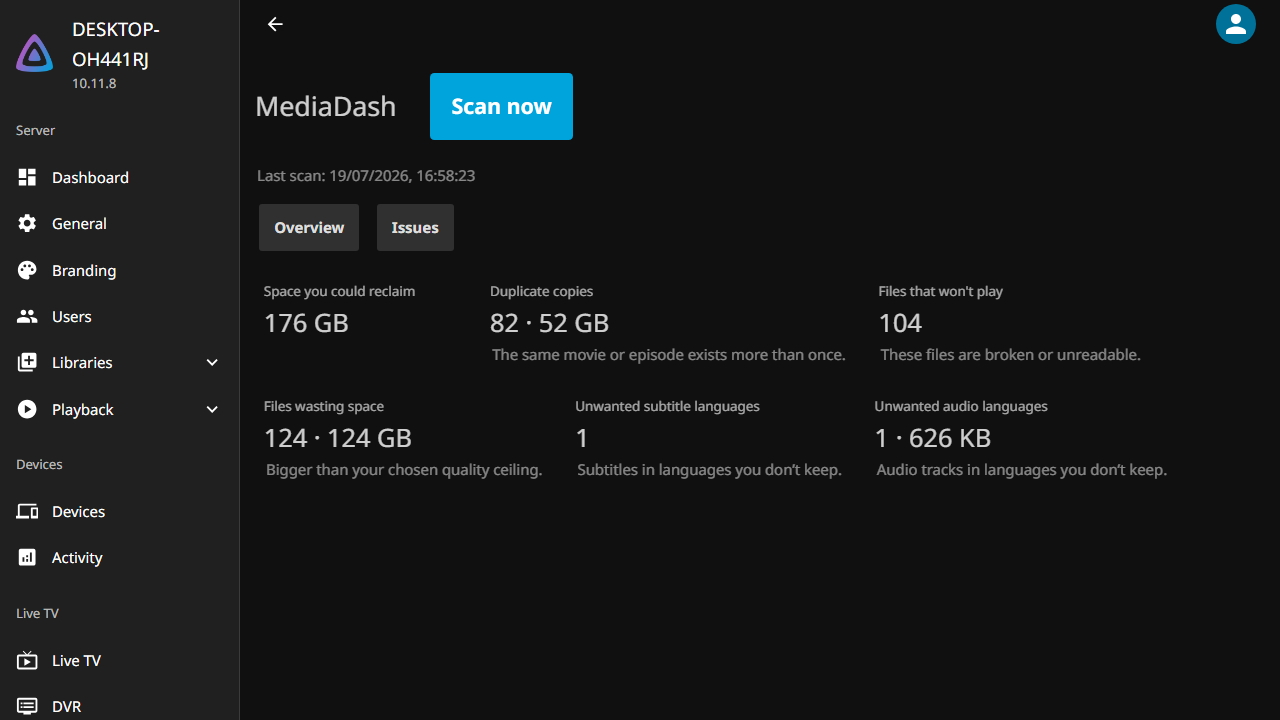
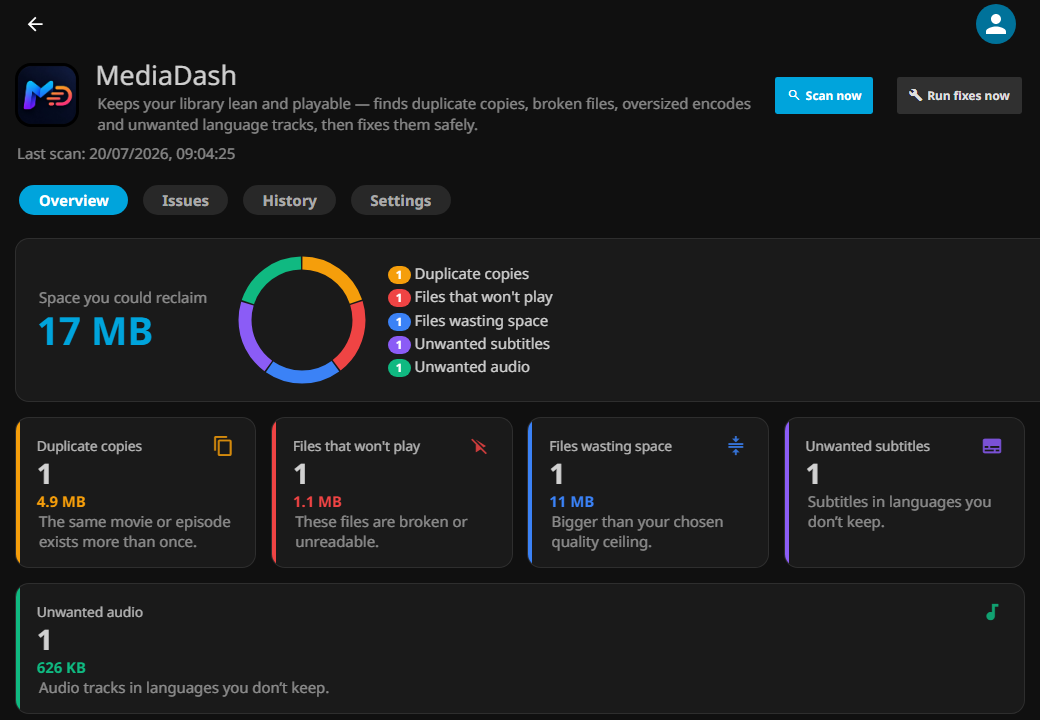
Public-facing README with badges, gallery and repo-install instructions; fresh screenshots; 0.1.0 changelog

diff --git a/README.md b/README.md
@@ -1,65 +1,90 @@
-<p align="center"><img src="logo.png" width="140" alt="MediaDash logo"/></p>
+<div align="center">
 
-# MediaDash — keep your Jellyfin library lean and playable
+<img src="logo.png" width="160" alt="MediaDash logo"/>
 
-MediaDash scans your libraries for **duplicate copies**, **files that won't play**, **oversized encodes**, and **audio/subtitle tracks in languages you don't want** — then fixes them, either automatically or after your approval. All from a dashboard inside the Jellyfin web UI.
+# MediaDash
 
-![Overview](docs/overview.png)
+**Keep your Jellyfin library lean and playable.**
 
-## What it will and won't touch (read this first)
+Finds duplicate copies, broken files, oversized encodes and unwanted language tracks — then fixes them safely, on your terms.
 
-- **Dry-run is ON by default.** Fix runs only log what they *would* do until you turn it off in Settings.
-- MediaDash **never touches files outside your configured library folders**.
-- It **never removes a file's only audio track** or its video stream, whatever the language settings say.
-- A re-encoded or rebuilt file **replaces the original only after it passes verification** (readable, same duration, expected streams).
-- Removed files go to MediaDash's **recycle bin** (default 30 days, one-click restore) unless you explicitly choose permanent delete.
-- Fix runs **pause while anyone is watching** something (default on).
+[![CI](https://github.com/crackruckles/MediaDash/actions/workflows/ci.yaml/badge.svg)](https://github.com/crackruckles/MediaDash/actions/workflows/ci.yaml)
+[![Release](https://img.shields.io/github/v/release/crackruckles/MediaDash?label=release&color=00a4dc)](https://github.com/crackruckles/MediaDash/releases/latest)
+[![Jellyfin](https://img.shields.io/badge/jellyfin-10.11%2B-aa5cc3)](https://jellyfin.org)
+[![License](https://img.shields.io/badge/license-GPLv3-blue)](LICENSE)
 
-## Features
+<img src="docs/overview.png" width="850" alt="MediaDash overview dashboard"/>
 
-| Scanner | What it finds | Fix |
+</div>
+
+---
+
+## Install (30 seconds)
+
+1. In Jellyfin: **Dashboard → Plugins → Repositories → +** and paste:
+
+   ```
+   https://raw.githubusercontent.com/crackruckles/MediaDash/main/manifest.json
+   ```
+
+2. Open **Catalog**, find **MediaDash**, click **Install**, restart Jellyfin.
+3. Open **Dashboard → My Plugins → MediaDash** and answer three setup questions. Done.
+
+Requires Jellyfin **10.11+**.
+
+## What it does
+
+| | Finds | Fixes |
 |---|---|---|
-| Duplicate copies | Same movie/episode more than once (by TMDb/IMDb/TVDb id, falling back to name+year) | Deletes the lower-quality copy; keeper policy configurable |
-| Files that won't play | Broken, unreadable, zero-duration files; optional deep decode check | Flagged for your review — never auto-deleted |
-| Files wasting space | Above your resolution/bitrate ceiling | Re-encode to your chosen codec + container (source file types filterable) |
-| Unwanted audio languages | Extra audio tracks outside your language list | Lossless remux dropping those tracks |
-| Unwanted subtitle languages | Embedded tracks and external files | Lossless remux / file removal |
+| 🗂 **Duplicate copies** | Same movie/episode twice (by TMDb/IMDb/TVDb id, or name + year) | Deletes the worse copy — you choose what "worse" means |
+| 🚫 **Files that won't play** | Broken and unreadable files — every file is *test-played* at its start, middle and end | Removes them, after re-checking they're really broken |
+| 📦 **Files wasting space** | Anything above your resolution/bitrate ceiling | Re-encodes to your chosen codec + container (GPU-accelerated if you want) |
+| 💬 **Unwanted subtitles** | Embedded tracks & external files in languages you don't keep | Lossless remux — no quality loss |
+| 🔊 **Unwanted audio** | Extra audio tracks outside your language list | Lossless remux — never touches a file's only audio track |
 
-Each fix type independently: **Off / Detect only / Ask me first / Automatic**, and **recycle bin / permanent delete**.
+Every fix type runs independently: **Off · Detect only · Ask me first · Automatic**.
 
-![History](docs/history.png)
+<div align="center">
+<img src="docs/issues.png" width="850" alt="Issues tab with one-click actions"/>
+</div>
 
-## Install
+## Built to be trusted with your media
 
-1. In Jellyfin: **Dashboard → Plugins → Repositories → +** and add this repository URL:
-   `https://raw.githubusercontent.com/crackruckles/MediaDash/main/manifest.json` *(will be live with the first release)*
-2. Go to **Catalog**, install **MediaDash**, restart Jellyfin.
-3. Open **Dashboard → My Plugins → MediaDash** and answer the three setup questions.
+- 🛡 **Dry-run is on by default** — fix runs only log what they *would* do until you say otherwise
+- ♻️ **Recycle bin, not deletion** — removed files are recoverable for 30 days with one-click Restore
+- ✅ **Verify before swap** — a re-encoded file replaces the original only after it passes probe verification (duration, streams)
+- 🔒 **Hard limits** — never touches files outside your libraries, never removes a file's last audio track, checks free disk space before encoding
+- 😴 **Polite** — scheduled runs wait until nobody is watching and the server has been idle for 15 minutes
 
-Requires Jellyfin **10.11** or newer.
+<div align="center">
+<img src="docs/history.png" width="850" alt="History with space-saved graph and restore"/>
+</div>
 
-## First run
+## Highlights
 
-Setup asks three things: the language you keep, your quality ceiling, and whether fixes should wait for your approval. Everything else gets safe defaults. Run a scan, review the Issues tab, and check History to see what a fix run *would* do while dry-run is on.
+- **Three-question setup** — pick your language, quality ceiling, and auto-vs-review. Everything else has safe defaults.
+- **Hardware-accelerated re-encoding** (optional) — uses the AMF/NVENC/QSV/VideoToolbox encoder you already configured in Jellyfin, with automatic per-file software fallback.
+- **Smart test-play cache** — thorough playability checks only re-run on files that changed.
+- **Plain language everywhere** — "Safe to delete — a better copy exists", not "duplicate group loser".
+- Scan & fix schedules live in Jellyfin's own **Scheduled Tasks** dashboard.
 
-![Settings](docs/settings.png)
+<div align="center">
+<img src="docs/settings.png" width="850" alt="Settings with per-type fix modes"/>
+</div>
 
 ## FAQ
 
 **Will it delete something I can't get back?**
-Not unless you choose both permanent delete *and* turn off dry-run. Out of the box, everything removed sits in the recycle bin for 30 days with a Restore button.
+Not unless you choose both permanent delete *and* turn off dry-run. Out of the box everything removed sits in the recycle bin for 30 days.
 
 **Why isn't a broken file fixed automatically?**
-Broken files can't be repaired by re-encoding — MediaDash flags them so you can replace or delete them deliberately.
-
-**Does it use my GPU for re-encoding?**
-v1 uses software encoding (libx265/libx264/SVT-AV1). Hardware encoder support is planned.
+Broken files can't be repaired — MediaDash flags them so *you* decide. Even in full-automatic mode, removing broken files always waits for your approval.
 
 **A track has no language tag — will it be removed?**
-No. Untagged (`und`) tracks are always kept, because deleting a track whose language is unknown isn't safe.
+Never. Untagged tracks are always kept, because deleting a track whose language is unknown isn't safe.
 
-**Where's the scan schedule?**
-Dashboard → Scheduled Tasks: "Scan libraries for issues" and "Apply approved fixes" — change their triggers like any other Jellyfin task.
+**Does re-encoding lose my subtitles?**
+Not with the default MKV output. MP4 output skips subtitle tracks (the format's support is too patchy) — the setting says so.
 
 ## Development
 
@@ -68,8 +93,8 @@ dotnet build Jellyfin.Plugin.MediaDash.sln
 dotnet test
 ```
 
-Deploy locally: copy `Jellyfin.Plugin.MediaDash/bin/Debug/net9.0/Jellyfin.Plugin.MediaDash.dll` to your server's `plugins/MediaDash/` folder and restart. Test fixtures: `tools/make-fixtures.sh <dir>`; full docker cycle: `tools/integration-test.sh`.
+Deploy locally: copy `bin/Debug/net9.0/Jellyfin.Plugin.MediaDash.dll` to your server's `plugins/MediaDash/` folder and restart. Test fixtures: `tools/make-fixtures.sh <dir>` · full docker cycle: `tools/integration-test.sh`.
 
 ## License
 
-GPLv3 — see [LICENSE](LICENSE).
+[GPLv3](LICENSE)

diff --git a/CHANGELOG.md b/CHANGELOG.md
@@ -1,8 +1,8 @@
 # Changelog
 
-## 0.1.0 (unreleased)
+## 0.1.0 (2026-07-20)
 
-Initial version.
+Initial public release.
 
 - Five scanners: duplicate copies, unplayable files, oversized encodes, unwanted audio languages, unwanted subtitle languages
 - Fix engine with per-type modes (Off / Detect only / Ask me first / Automatic) and per-type disposal (recycle bin / permanent)